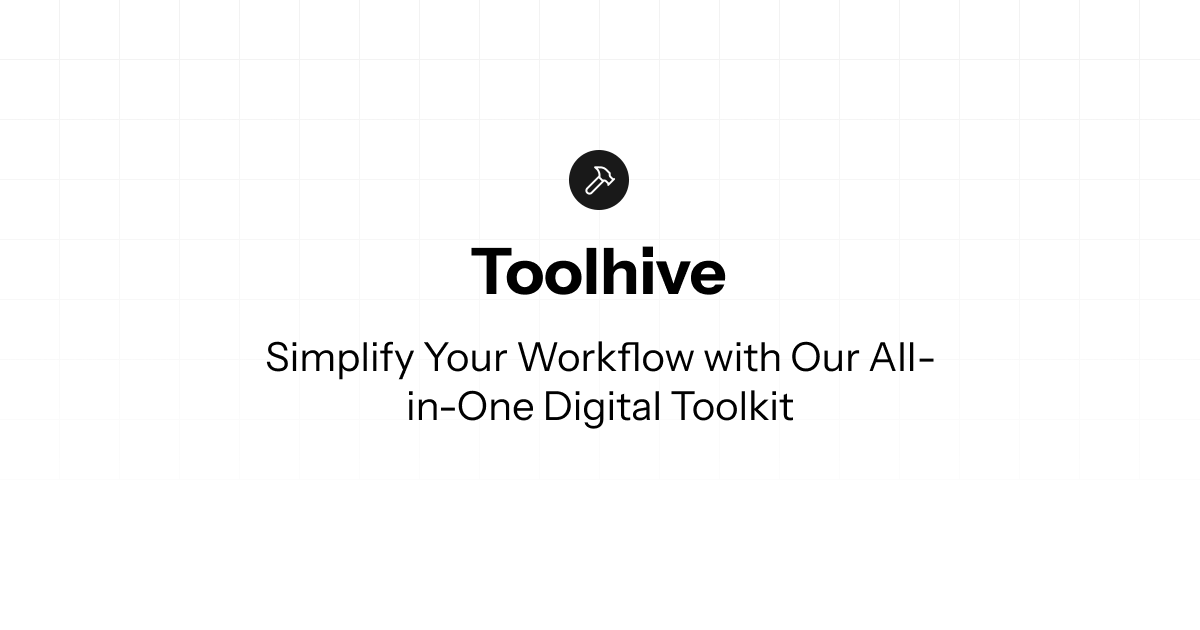
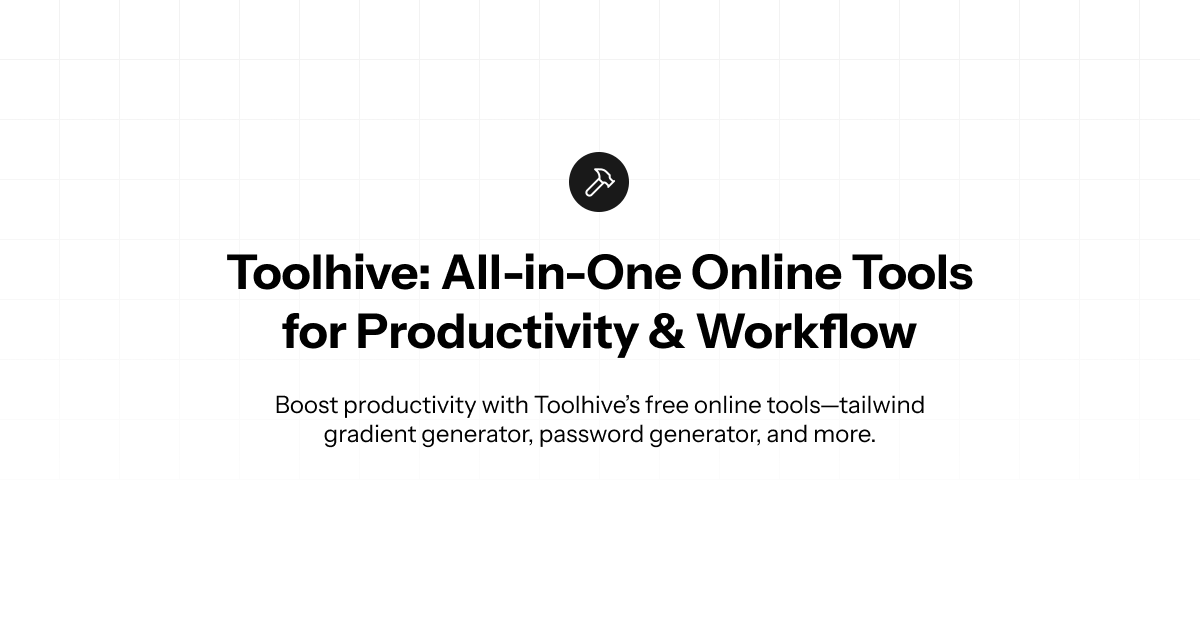
Update meta tags and met image

Changed region(s): [[0.185, 0.3921, 0.8325, 0.7238], [0.4625, 0.2413, 0.5242, 0.3317]]

diff --git a/src/app/layout.tsx b/src/app/layout.tsx
@@ -6,17 +6,17 @@ import Navbar from "./navbar";
 const instrumentSans = Instrument_Sans({ subsets: ['latin'] })
 
 export const metadata: Metadata = {
-  title: "Toolhive",
-  description: "Simplify Your Workflow with Our All-in-One Digital Toolkit",
+  title: "Toolhive: All-in-One Online Tools for Productivity & Workflow",
+  description: "Boost productivity with Toolhive’s free online tools—tailwind gradient generator, password generator, word counter, color palette generator, note-taking, and more. Simplify your workflow with our easy-to-use toolkit.",
   keywords: "Toolhive, digital toolkit, tailwind gradient generator, password generator, word counter, Lorem Ipsum generator, to-do list, notes app, color palette generator, productivity tools, online tools",
   openGraph: {
-    title: "Toolhive",
-    description: "Simplify Your Workflow with Our All-in-One Digital Toolkit",
+    title: "Toolhive: All-in-One Online Tools for Productivity & Workflow",
+    description: "Boost productivity with Toolhive’s free online tools—tailwind gradient generator, password generator, word counter, color palette generator, note-taking, and more. Simplify your workflow with our easy-to-use toolkit.",
     images: "/meta-image.png"
   },
   twitter: {
-    title: "Toolhive",
-    description: "Simplify Your Workflow with Our All-in-One Digital Toolkit",
+    title: "Toolhive: All-in-One Online Tools for Productivity & Workflow",
+    description: "Boost productivity with Toolhive’s free online tools—tailwind gradient generator, password generator, word counter, color palette generator, note-taking, and more. Simplify your workflow with our easy-to-use toolkit.",
     images: "/meta-image.png"
   }
 };
